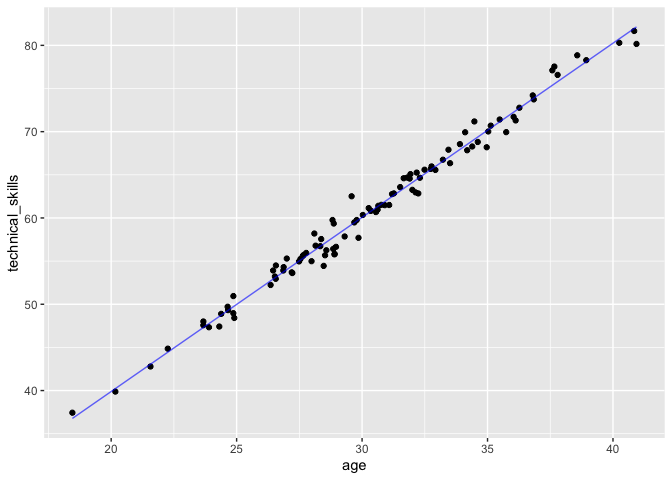
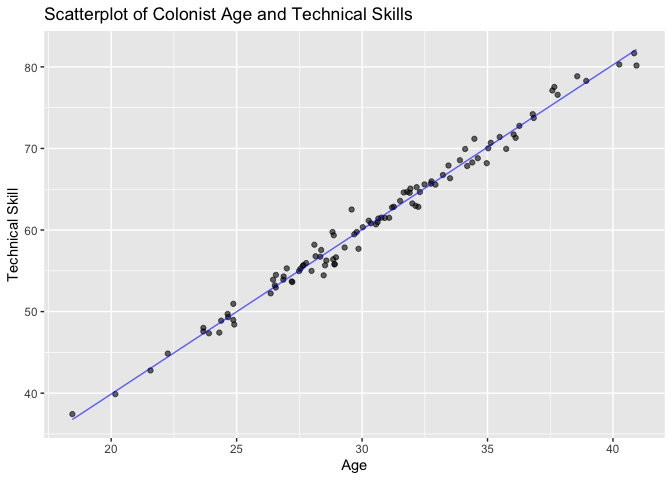
Up through Exercise 3

diff --git a/lab-12.md b/lab-12.md
@@ -3,7 +3,9 @@ Lab 13 - Colonizing Mars
 Benjamin Egan
 Start date 1-29
 
-### Exercise 1
+    ## Warning: package 'purrr' was built under R version 4.3.3
+
+### Exercise 1 - Simulating colonists
 
 ``` r
 set.seed(123)
@@ -24,12 +26,12 @@ ggplot(
        x = "Age", y = "Frequency")
 ```
 
-![](lab-12_files/figure-gfm/1.1%20-%20visualizing%20data-1.png)<!-- -->
-It created a roughly normal distribution that is centered at 30. It
-looks like changing the seed makes the distribution more normal. The 100
-seed looks normally distributed and the 1000 seed even more so. Looks
-like it’s due to random chance, as 999 seed doesn’t have the nice
-bellcurve shape.
+![](lab-12_files/figure-gfm/1.1%20-%20visualizing%20base%20colonists-1.png)<!-- -->
+This is an age distribution graph. It created a roughly normal
+distribution that is centered at 30. It looks like changing the seed
+makes the distribution more normal. The 100 seed looks normally
+distributed and the 1000 seed even more so. Looks like it’s due to
+random chance, as 999 seed doesn’t have the nice bellcurve shape.
 
 ``` r
 role <- rep(c("engineer", "scientist", "medic"), 
@@ -60,8 +62,10 @@ print(role)
     ##  [91] "medic"     "medic"     "medic"     "medic"     "medic"     "medic"    
     ##  [97] "medic"     "medic"     "medic"     "medic"
 
-Most of the reason I chose this was for pure randomness. But I like that
-it listed out each role together.
+Here I assigned each of them roles. I chose this method mostly out of
+pure randomness. But I like that it listed out each role together.
+
+#### Health can be measured using the MARSGAR
 
 ``` r
 set.seed(123)
@@ -85,7 +89,7 @@ ggplot( aes(
 
 ![](lab-12_files/figure-gfm/1.4%20heathy-1.png)<!-- -->
 
-### Exercise 2
+### Exercise 2 - Growing the colonists’ skills
 
 ``` r
 set.seed(1235)
@@ -113,11 +117,42 @@ df_colonists %>%
     x = age,
     y = technical_skills
   ))+
-  geom_point()+
-  geom_line(stat = "smooth", method="lm", alpha = .6, color = "blue", se = FALSE)
+  geom_point(alpha = .6)+
+  geom_line(stat = "smooth", method="lm", alpha = .6, color = "blue", se = FALSE)+
+  labs(
+    x = "Age",
+    y = "Technical Skill",
+    title = "Scatterplot of Colonist Age and Technical Skills"
+  )
 ```
 
 ![](lab-12_files/figure-gfm/2.1%20technical%20skills%20and%20visual-1.png)<!-- -->
+
+Here we can see that age is about evenly distributed among the roles
+
+``` r
+df_colonists %>%
+  ggplot(aes(
+    x = age,
+    y = technical_skills,
+    color = as.factor(role)
+  ))+
+  geom_point(alpha = .6)+
+  scale_color_manual(values=c("blue", "red","green4"))+
+  geom_line(stat = "smooth", method="lm", alpha = .6, color = "black", se = FALSE)+
+  labs(
+    x = "Age",
+    y = "Technical Skill",
+    color = "Role",
+    title = "Scatterplot of Colonist Age and Technical Skills by Role"
+  )
+```
+
+    ## `geom_smooth()` using formula = 'y ~ x'
+
+![](lab-12_files/figure-gfm/alternate%20plot-1.png)<!-- -->
+
+### Problem solving for each colonist
 
 ``` r
 d_engineer <- rnorm(100, mean = 40, sd = 5)
@@ -176,6 +211,8 @@ df_colonists %>%
 ```
 
 ![](lab-12_files/figure-gfm/using%20mvrnorm-1.png)<!-- -->
+
+I used the code provided to create a correlation matrix for the big 5
 
 ``` r
 # Define the bigfive
